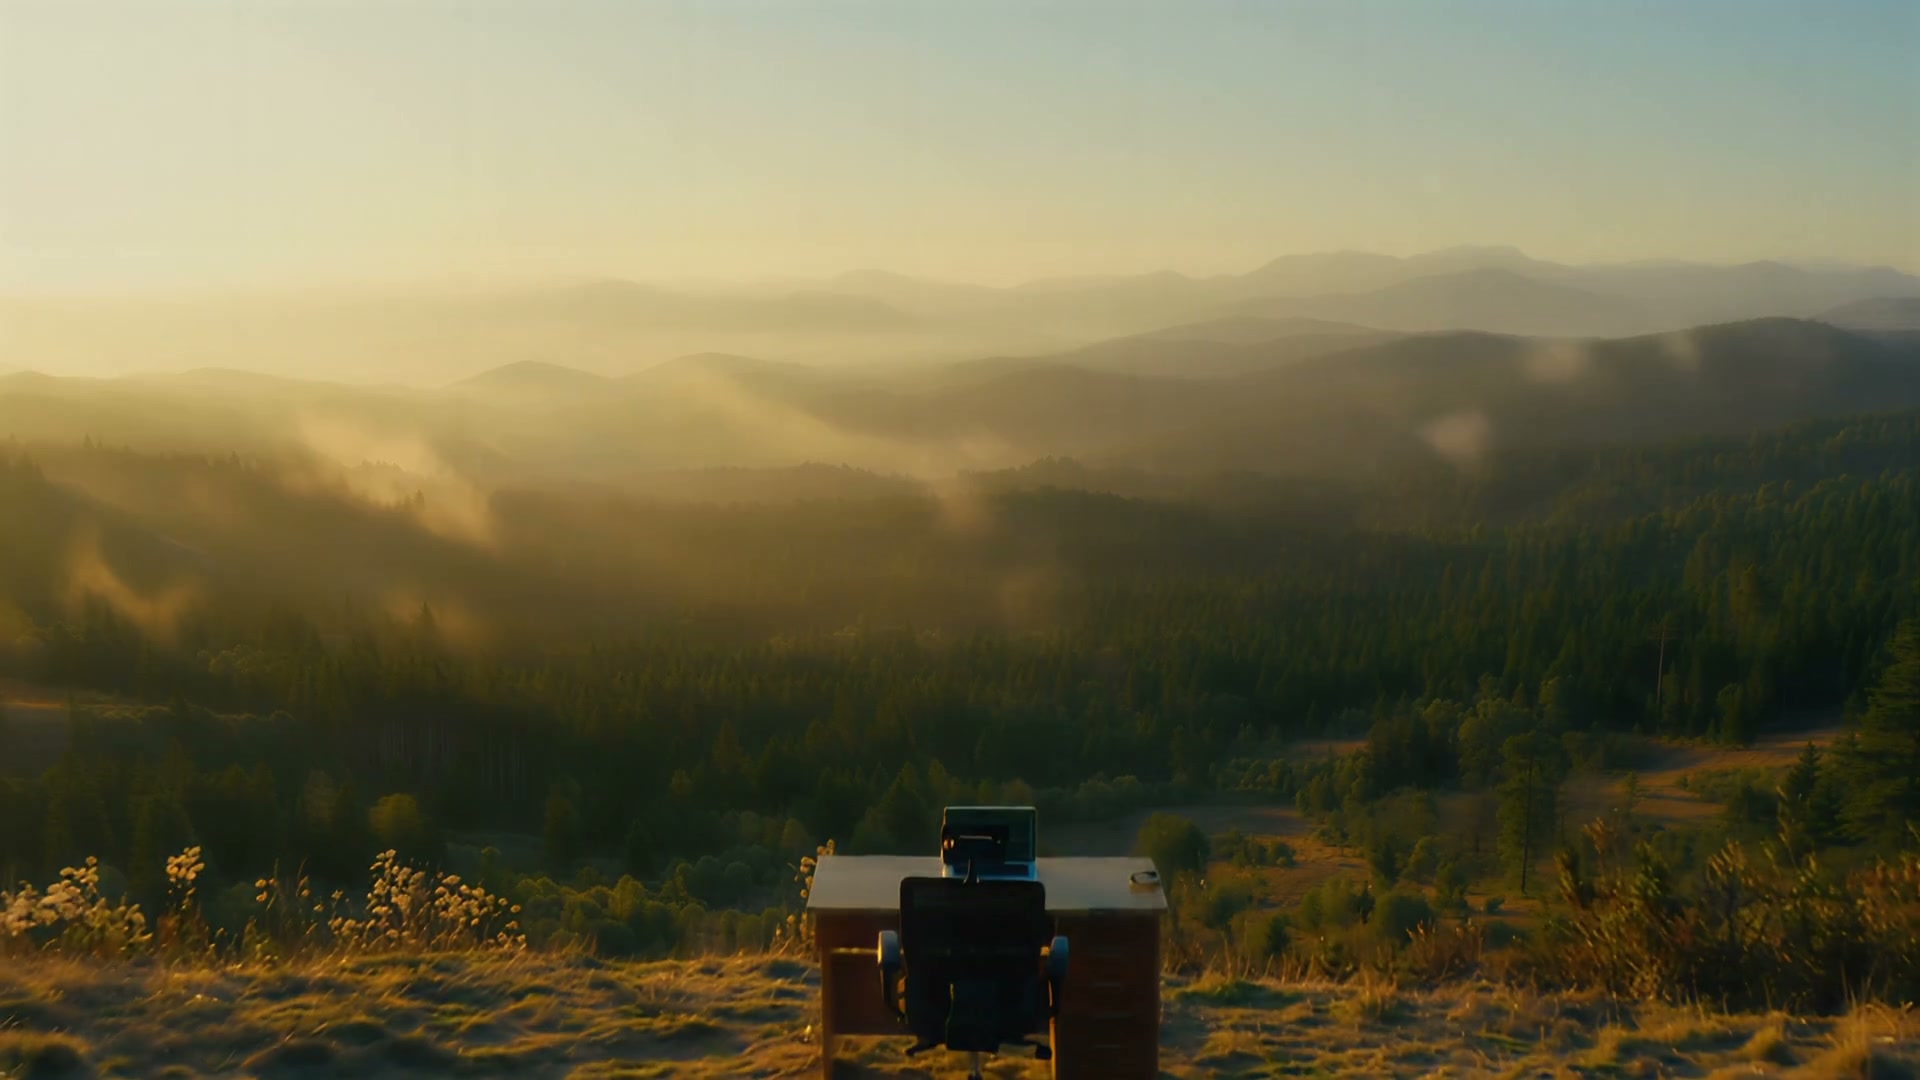
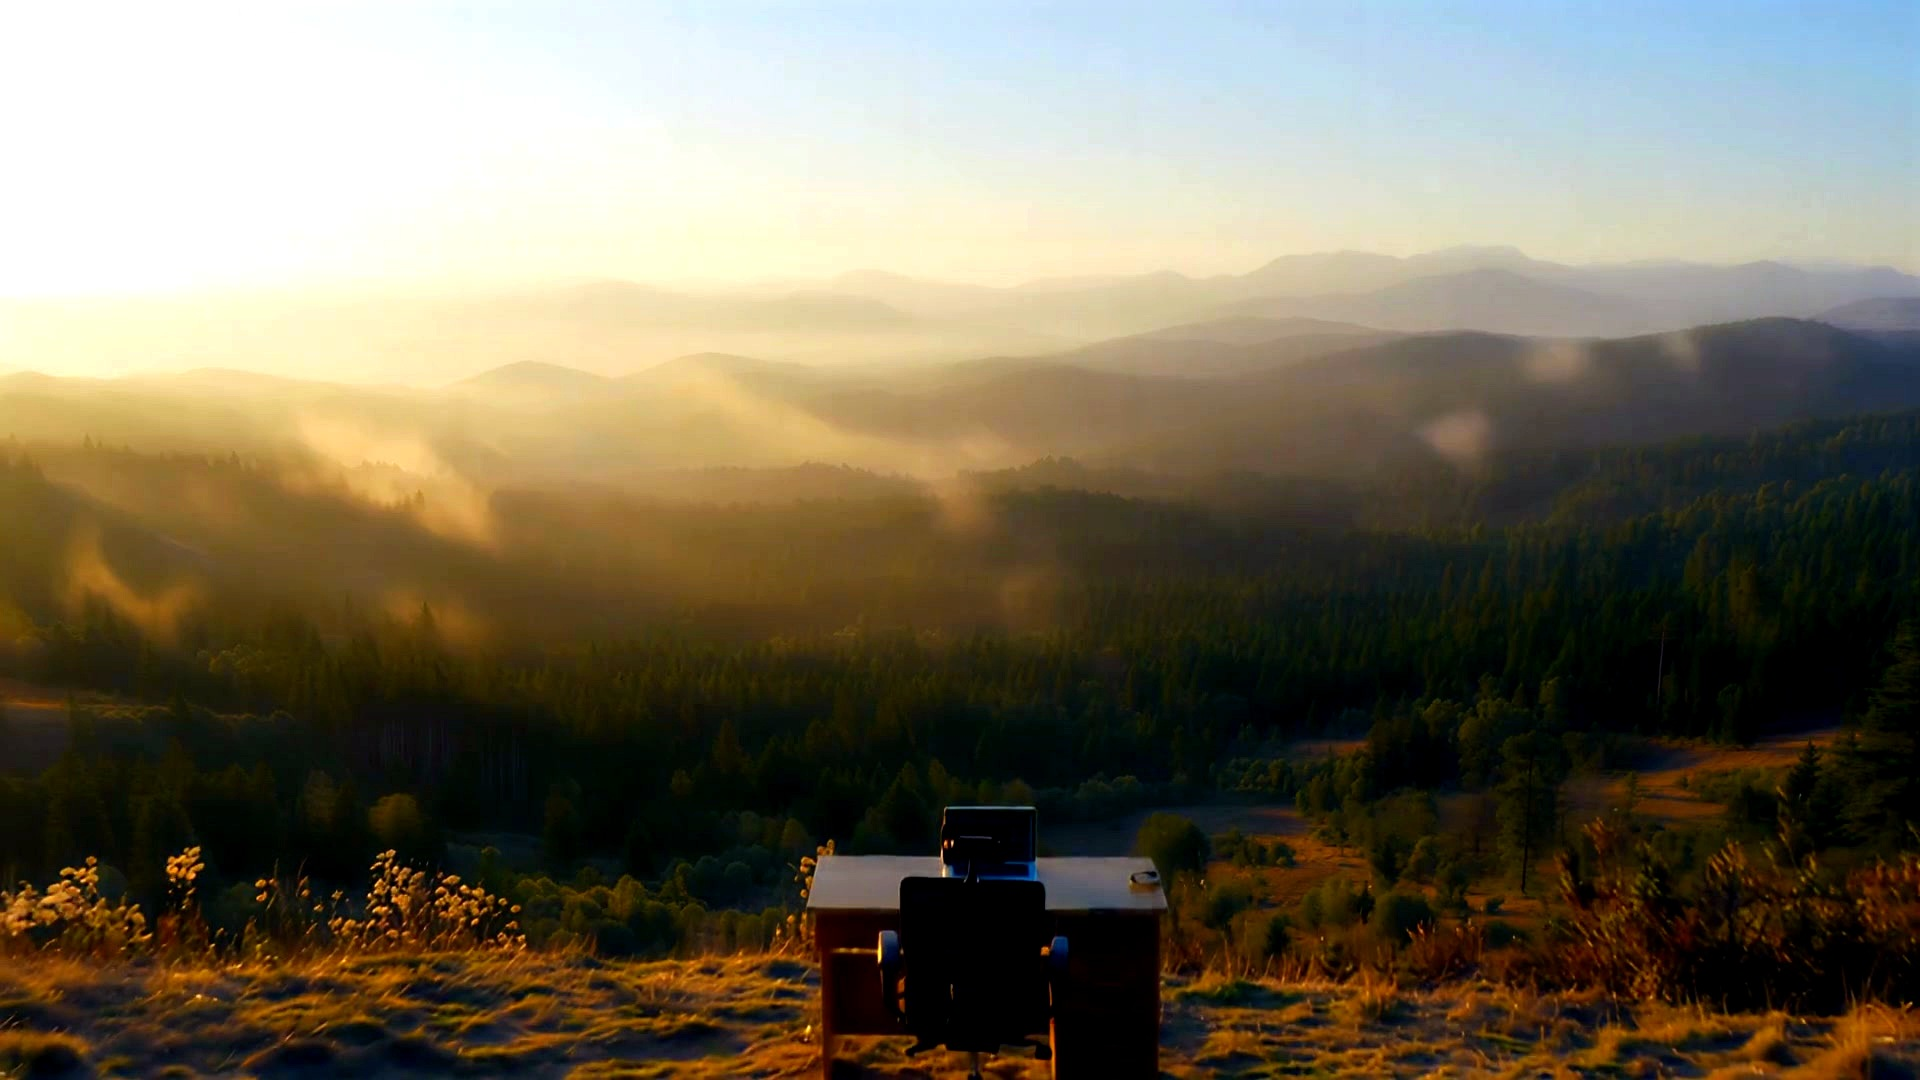
fix(www): pin check to the laptop, less haze, paper grain
Check rides the screen. Valley is clearer. Rest of the site is warm paper, not blank white.

diff --git a/assets/site.css b/assets/site.css
@@ -28,17 +28,17 @@
 }
 
 :root {
-  --paper: #f6f1e8;
-  --page: #f7f4ee;
-  --header: #ffffff;
-  --card: #ffffff;
+  --paper: #e8dfcf;
+  --page: #ebe3d3;
+  --header: #ebe3d3;
+  --card: #f4ecdf;
   --ink: #161616;
   --ink-soft: #3a3a3a;
   --mute: #5c5c5c;
-  --line: #e6e1d8;
+  --line: #d5ccbc;
   --cyan: #5b5ce2;
   --gold: #c9a227;
-  --night: #f7f4ee;
+  --night: #ebe3d3;
   --night-ink: #161616;
   --night-mute: #5c5c5c;
   --purple: #5b5ce2;
@@ -51,15 +51,15 @@
 }
 html[data-theme="dark"] {
   color-scheme: light;
-  --paper: #f6f1e8;
-  --page: #f7f4ee;
-  --header: #ffffff;
-  --card: #ffffff;
+  --paper: #e8dfcf;
+  --page: #ebe3d3;
+  --header: #ebe3d3;
+  --card: #f4ecdf;
   --ink: #161616;
   --ink-soft: #3a3a3a;
   --mute: #5c5c5c;
-  --line: #e6e1d8;
-  --night: #f7f4ee;
+  --line: #d5ccbc;
+  --night: #ebe3d3;
   --night-ink: #161616;
   --night-mute: #5c5c5c;
 }
@@ -67,11 +67,15 @@ html[data-theme="dark"] {
 * { box-sizing: border-box; }
 html { color-scheme: light; scroll-behavior: smooth; }
 html[data-theme="dark"] { color-scheme: light; }
+html, body {
+  background-color: var(--page);
+  background-image: radial-gradient(rgba(74, 58, 36, 0.11) 0.55px, transparent 0.7px);
+  background-size: 7px 7px;
+}
 body {
   margin: 0;
   min-height: 100vh;
   color: var(--ink);
-  background: var(--page);
   font-family: Outfit, "Segoe UI", sans-serif;
   line-height: 1.5;
   -webkit-font-smoothing: antialiased;
@@ -1717,6 +1721,7 @@ html[data-theme="dark"] .people-plate.people-dark { display: block; }
   .air-pin { height: auto; }
   .air-hero { position: relative; height: auto; min-height: 100vh; }
   .air-land { transform: none !important; }
+  .air-world { transform: none !important; }
   .air-copy { opacity: 1 !important; }
   .air-check { opacity: 1; }
 }
@@ -1789,7 +1794,7 @@ html[data-theme="dark"] .people-plate.people-dark { display: block; }
 }
 
 
-.air-pin { height: 240vh; position: relative; }
+.air-pin { height: 200vh; position: relative; }
 .air-hero {
   position: sticky;
   top: 0;
@@ -1801,15 +1806,18 @@ html[data-theme="dark"] .people-plate.people-dark { display: block; }
   z-index: 1;
 }
 .sell-hero.air-hero::after { display: none; }
+.air-world {
+  position: absolute;
+  transform-origin: 51.9% 76.6%;
+  will-change: transform;
+}
 .air-land {
   position: absolute;
   inset: 0;
   width: 100%;
   height: 100%;
-  object-fit: cover;
-  object-position: center 72%;
-  transform-origin: 50% 82%;
-  will-change: transform;
+  object-fit: fill;
+  display: block;
 }
 .air-shade {
   position: absolute;
@@ -1866,33 +1874,40 @@ html[data-theme="dark"] .people-plate.people-dark { display: block; }
 }
 .air-check {
   position: absolute;
-  left: 50%;
-  bottom: 11%;
-  width: min(360px, 86vw);
-  transform: translateX(-50%);
+  left: 50.35%;
+  top: 75.05%;
+  width: 2.35%;
+  height: 3.15%;
+  min-width: 0;
+  max-width: 2.35%;
+  max-height: 3.15%;
   z-index: 5;
   opacity: 0;
   pointer-events: none;
-  background: #fbfaf6;
+  overflow: hidden;
+  box-sizing: border-box;
+  background: #f7f1e6;
   color: #161616;
-  border-radius: 14px;
-  padding: 14px 16px;
-  box-shadow: 0 24px 60px rgba(8,12,18,.35);
+  border-radius: 3px;
+  padding: 3px 4px;
+  box-shadow: none;
   text-shadow: none;
-  transition: opacity .35s ease;
+  font-size: 4px;
+  line-height: 1.1;
+  transition: opacity .25s ease;
 }
 .air-check.is-on { opacity: 1; }
-.air-check .from { font-size: 11px; color: #6a6a6a; margin: 0 0 8px; }
-.air-check h3 { margin: 0 0 10px; font: 400 18px "Instrument Serif", Georgia, serif; }
+.air-check .from { font-size: 0.7em; color: #6a6a6a; margin: 0 0 0.4em; white-space: nowrap; overflow: hidden; }
+.air-check h3 { margin: 0 0 0.45em; font: 400 1.15em "Instrument Serif", Georgia, serif; white-space: nowrap; overflow: hidden; }
 .air-check .pane {
   border: 1px solid #e6e1d8;
-  border-radius: 8px;
-  padding: 8px 10px;
-  margin: 0 0 8px;
+  border-radius: 8%;
+  padding: 0.35em 0.45em;
+  margin: 0 0 0.35em;
   background: #fff;
 }
-.air-check .pane strong { display: block; font-size: 14px; }
-.air-check .pane span { font-size: 11px; color: #6a6a6a; }
+.air-check .pane strong { display: block; font-size: 0.95em; }
+.air-check .pane span { font-size: 0.65em; color: #6a6a6a; }
 .air-after { padding-top: 56px; }
 .air-after .product-line { font-size: 20px; max-width: 720px; }
 .home .site-header {

diff --git a/trust.html b/trust.html
@@ -5,7 +5,7 @@
      enforceable subset. NOTE: frame-ancestors is ignored when delivered via <meta>;
      real clickjacking protection requires a header layer (Cloudflare/CloudFront) and
      is required before any verification surface is hosted on this domain. -->
-<meta http-equiv="Content-Security-Policy" content="default-src 'self'; script-src 'self'; style-src 'self'; img-src 'self'; font-src 'self'; connect-src 'self'; object-src 'none'; base-uri 'none'; form-action 'self'; frame-ancestors 'none'; upgrade-insecure-requests"><meta name="referrer" content="strict-origin-when-cross-origin"><meta http-equiv="X-Content-Type-Options" content="nosniff"><title>Trust &amp; Evidence | Signet7</title><meta name="description" content="Understand Signet7 signature-bound sender identity, trust states, decision evidence, compliance boundaries, and the Verifiable Sender Network (VSN) lookup live now."><link rel="canonical" href="https://signet7.io/trust"><meta property="og:title" content="Trust &amp; Evidence | Signet7"><meta property="og:description" content="Understand Signet7 signature-bound sender identity, trust states, decision evidence, compliance boundaries, and the Verifiable Sender Network (VSN) lookup live now."><meta property="og:type" content="website"><meta property="og:url" content="https://signet7.io/trust"><meta property="og:image" content="https://signet7.io/assets/og-image.png"><meta name="twitter:card" content="summary_large_image"><link rel="icon" type="image/png" href="assets/favicon.png"><link rel="stylesheet" href="assets/site.css?v=20260901m"></head>
+<meta http-equiv="Content-Security-Policy" content="default-src 'self'; script-src 'self'; style-src 'self'; img-src 'self'; font-src 'self'; connect-src 'self'; object-src 'none'; base-uri 'none'; form-action 'self'; frame-ancestors 'none'; upgrade-insecure-requests"><meta name="referrer" content="strict-origin-when-cross-origin"><meta http-equiv="X-Content-Type-Options" content="nosniff"><title>Trust &amp; Evidence | Signet7</title><meta name="description" content="Understand Signet7 signature-bound sender identity, trust states, decision evidence, compliance boundaries, and the Verifiable Sender Network (VSN) lookup live now."><link rel="canonical" href="https://signet7.io/trust"><meta property="og:title" content="Trust &amp; Evidence | Signet7"><meta property="og:description" content="Understand Signet7 signature-bound sender identity, trust states, decision evidence, compliance boundaries, and the Verifiable Sender Network (VSN) lookup live now."><meta property="og:type" content="website"><meta property="og:url" content="https://signet7.io/trust"><meta property="og:image" content="https://signet7.io/assets/og-image.png"><meta name="twitter:card" content="summary_large_image"><link rel="icon" type="image/png" href="assets/favicon.png"><link rel="stylesheet" href="assets/site.css?v=20260901p"></head>
 <body>
   <a class="skip-link" href="#main">Skip to content</a>
   <header class="site-header"><div class="container nav-wrap"><a class="brand" href="/"><img src="assets/signet7-logo-mark.png?v=c4" width="768" height="768" alt="Signet7"><span>Signet7</span></a>      <button class="nav-toggle" type="button" aria-expanded="false" aria-controls="site-nav" aria-label="Open menu">Menu</button>

diff --git a/integrations.html b/integrations.html
@@ -5,7 +5,7 @@
      enforceable subset. NOTE: frame-ancestors is ignored when delivered via <meta>;
      real clickjacking protection requires a header layer (Cloudflare/CloudFront) and
      is required before any verification surface is hosted on this domain. -->
-<meta http-equiv="Content-Security-Policy" content="default-src 'self'; script-src 'self'; style-src 'self'; img-src 'self'; font-src 'self'; connect-src 'self'; object-src 'none'; base-uri 'none'; form-action 'self'; frame-ancestors 'none'; upgrade-insecure-requests"><meta name="referrer" content="strict-origin-when-cross-origin"><meta http-equiv="X-Content-Type-Options" content="nosniff"><title>Integrations | Signet7 API &amp; MCP</title><meta name="description" content="Review Signet7 API/MCP-first agent gating, caller-enforcement contract, email integration candidates, and current deployment boundaries."><link rel="canonical" href="https://signet7.io/integrations"><meta property="og:title" content="Integrations | Signet7 API &amp; MCP"><meta property="og:description" content="Review Signet7 API/MCP-first agent gating, caller-enforcement contract, email integration candidates, and current deployment boundaries."><meta property="og:type" content="website"><meta property="og:url" content="https://signet7.io/integrations"><meta property="og:image" content="https://signet7.io/assets/og-image.png"><meta name="twitter:card" content="summary_large_image"><link rel="icon" type="image/png" href="assets/favicon.png"><link rel="stylesheet" href="assets/site.css?v=20260901m"></head>
+<meta http-equiv="Content-Security-Policy" content="default-src 'self'; script-src 'self'; style-src 'self'; img-src 'self'; font-src 'self'; connect-src 'self'; object-src 'none'; base-uri 'none'; form-action 'self'; frame-ancestors 'none'; upgrade-insecure-requests"><meta name="referrer" content="strict-origin-when-cross-origin"><meta http-equiv="X-Content-Type-Options" content="nosniff"><title>Integrations | Signet7 API &amp; MCP</title><meta name="description" content="Review Signet7 API/MCP-first agent gating, caller-enforcement contract, email integration candidates, and current deployment boundaries."><link rel="canonical" href="https://signet7.io/integrations"><meta property="og:title" content="Integrations | Signet7 API &amp; MCP"><meta property="og:description" content="Review Signet7 API/MCP-first agent gating, caller-enforcement contract, email integration candidates, and current deployment boundaries."><meta property="og:type" content="website"><meta property="og:url" content="https://signet7.io/integrations"><meta property="og:image" content="https://signet7.io/assets/og-image.png"><meta name="twitter:card" content="summary_large_image"><link rel="icon" type="image/png" href="assets/favicon.png"><link rel="stylesheet" href="assets/site.css?v=20260901p"></head>
 <body>
   <a class="skip-link" href="#main">Skip to content</a>
   <header class="site-header"><div class="container nav-wrap"><a class="brand" href="/"><img src="assets/signet7-logo-mark.png?v=c4" width="768" height="768" alt="Signet7"><span>Signet7</span></a>      <button class="nav-toggle" type="button" aria-expanded="false" aria-controls="site-nav" aria-label="Open menu">Menu</button>

diff --git a/programs.html b/programs.html
@@ -5,7 +5,7 @@
      enforceable subset. NOTE: frame-ancestors is ignored when delivered via <meta>;
      real clickjacking protection requires a header layer (Cloudflare/CloudFront) and
      is required before any verification surface is hosted on this domain. -->
-<meta http-equiv="Content-Security-Policy" content="default-src 'self'; script-src 'self'; style-src 'self'; img-src 'self'; font-src 'self'; connect-src 'self'; object-src 'none'; base-uri 'none'; form-action 'self'; frame-ancestors 'none'; upgrade-insecure-requests"><meta name="referrer" content="strict-origin-when-cross-origin"><meta http-equiv="X-Content-Type-Options" content="nosniff"><title>Programs | Signet7</title><meta name="description" content="The check for every human. Watch on one company inbox. Verifiable Sender Network (VSN) so your company can be looked up. Checkout is not live."><link rel="canonical" href="https://signet7.io/programs"><meta property="og:title" content="Programs | Signet7"><meta property="og:description" content="The check for every human. Watch on one company inbox. VSN so your company can be looked up. Checkout is not live."><meta property="og:type" content="website"><meta property="og:url" content="https://signet7.io/programs"><meta property="og:image" content="https://signet7.io/assets/og-image.png"><meta name="twitter:card" content="summary_large_image"><link rel="icon" type="image/png" href="assets/favicon.png"><link rel="stylesheet" href="assets/site.css?v=20260901m"></head>
+<meta http-equiv="Content-Security-Policy" content="default-src 'self'; script-src 'self'; style-src 'self'; img-src 'self'; font-src 'self'; connect-src 'self'; object-src 'none'; base-uri 'none'; form-action 'self'; frame-ancestors 'none'; upgrade-insecure-requests"><meta name="referrer" content="strict-origin-when-cross-origin"><meta http-equiv="X-Content-Type-Options" content="nosniff"><title>Programs | Signet7</title><meta name="description" content="The check for every human. Watch on one company inbox. Verifiable Sender Network (VSN) so your company can be looked up. Checkout is not live."><link rel="canonical" href="https://signet7.io/programs"><meta property="og:title" content="Programs | Signet7"><meta property="og:description" content="The check for every human. Watch on one company inbox. VSN so your company can be looked up. Checkout is not live."><meta property="og:type" content="website"><meta property="og:url" content="https://signet7.io/programs"><meta property="og:image" content="https://signet7.io/assets/og-image.png"><meta name="twitter:card" content="summary_large_image"><link rel="icon" type="image/png" href="assets/favicon.png"><link rel="stylesheet" href="assets/site.css?v=20260901p"></head>
 <body>
   <a class="skip-link" href="#main">Skip to content</a>
   <header class="site-header"><div class="container nav-wrap"><a class="brand" href="/"><img src="assets/signet7-logo-mark.png?v=c4" width="768" height="768" alt="Signet7"><span>Signet7</span></a>      <button class="nav-toggle" type="button" aria-expanded="false" aria-controls="site-nav" aria-label="Open menu">Menu</button>

diff --git a/index.html b/index.html
@@ -21,7 +21,7 @@
   <meta property="og:image" content="https://signet7.io/assets/og-image.png">
   <link rel="canonical" href="https://signet7.io/">
   <link rel="icon" type="image/png" href="assets/favicon.png">
-  <link rel="stylesheet" href="assets/site.css?v=20260901m">
+  <link rel="stylesheet" href="assets/site.css?v=20260901p">
 </head>
 <body class="home">
   <a class="skip-link" href="#main">Skip to content</a>
@@ -69,7 +69,15 @@
   <main id="main">
     <div class="air-pin" data-air-pin>
     <section class="sell-hero air-hero" aria-labelledby="hero-title">
-      <img class="air-land" data-air-land data-air-world src="assets/air-valley.jpg" width="1920" height="1080" alt="">
+      <div class="air-world" data-air-land data-air-world>
+        <img class="air-land" src="assets/air-valley.jpg" width="1920" height="1080" alt="">
+        <aside class="air-check" data-air-check aria-label="The check on the laptop">
+          <p class="from">From ap@northline-vendors.com</p>
+          <h3>Updated wiring instructions</h3>
+          <div class="pane"><span>The words</span><strong>Still match what was sealed</strong></div>
+          <div class="pane"><span>The sender</span><strong>Not tied to that company</strong></div>
+        </aside>
+      </div>
       <div class="air-shade" aria-hidden="true"></div>
       <div class="air-copy" data-air-copy>
         <h1 id="hero-title" class="billboard">High-stakes email, finally <em>provable</em>.</h1>
@@ -84,12 +92,6 @@
           <a class="button button-secondary" href="register">Register</a>
         </div>
       </div>
-      <aside class="air-check" data-air-check aria-label="The check on the laptop">
-        <p class="from">From ap@northline-vendors.com</p>
-        <h3>Updated wiring instructions</h3>
-        <div class="pane"><span>The words</span><strong>Still match what was sealed</strong></div>
-        <div class="pane"><span>The sender</span><strong>Not tied to that company</strong></div>
-      </aside>
     </section>
     </div>
 
@@ -293,6 +295,6 @@
     </div>
   </footer>
   <script src="assets/motion.js?v=20260831e" defer></script>
-  <script src="assets/air-zoom.js" defer></script>
+  <script src="assets/air-zoom.js?v=2" defer></script>
 </body>
 </html>

diff --git a/assets/air-zoom.js b/assets/air-zoom.js
@@ -1,25 +1,45 @@
 (() => {
   const pin = document.querySelector("[data-air-pin]");
-  const land = document.querySelector("[data-air-land]");
+  const world = document.querySelector("[data-air-land]");
   const copy = document.querySelector("[data-air-copy]");
   const check = document.querySelector("[data-air-check]");
-  if (!pin || !land) return;
+  if (!pin || !world) return;
+  const ar = 1920 / 1080;
   const reduce = window.matchMedia("(prefers-reduced-motion: reduce)").matches;
-  if (reduce) {
-    land.style.transform = "none";
-    if (copy) copy.style.opacity = "1";
-    if (check) check.classList.add("is-on");
-    return;
-  }
+
+  const layout = () => {
+    const vw = window.innerWidth;
+    const vh = window.innerHeight;
+    let w;
+    let h;
+    if (vw / vh > ar) {
+      w = vw;
+      h = vw / ar;
+    } else {
+      h = vh;
+      w = vh * ar;
+    }
+    world.style.width = w + "px";
+    world.style.height = h + "px";
+    world.style.left = (vw - w) / 2 + "px";
+    world.style.top = (vh - h) / 2 + "px";
+  };
 
   const paint = () => {
+    layout();
+    if (reduce) {
+      world.style.transform = "none";
+      if (copy) copy.style.opacity = "1";
+      if (check) check.classList.add("is-on");
+      return;
+    }
     const total = Math.max(1, pin.offsetHeight - window.innerHeight);
     const passed = Math.min(total, Math.max(0, -pin.getBoundingClientRect().top));
     const p = passed / total;
-    land.style.transform = "scale(" + (1 + p * 1.9) + ")";
-    if (copy) copy.style.opacity = String(Math.max(0, 1 - p * 1.5));
+    world.style.transform = "scale(" + (1 + p * 2.85) + ")";
+    if (copy) copy.style.opacity = String(Math.max(0, 1 - p * 1.55));
     if (check) {
-      if (p > 0.42) check.classList.add("is-on");
+      if (p > 0.38) check.classList.add("is-on");
       else check.classList.remove("is-on");
     }
   };

diff --git a/pilot.html b/pilot.html
@@ -16,7 +16,7 @@
   <meta name="twitter:card" content="summary_large_image">
   <meta name="description" content="A bounded four-week Signet7 Founding Design Partner evaluation for one consequential email workflow: payment instructions.">
   <meta name="theme-color" content="#030609"><title>Founding Design Partner Pilot | Signet7</title>
-  <link rel="icon" type="image/png" href="assets/favicon.png"><link rel="apple-touch-icon" href="assets/apple-touch-icon.png"><link rel="stylesheet" href="assets/site.css?v=20260901m">
+  <link rel="icon" type="image/png" href="assets/favicon.png"><link rel="apple-touch-icon" href="assets/apple-touch-icon.png"><link rel="stylesheet" href="assets/site.css?v=20260901p">
 </head>
 <body>
   <a class="skip-link" href="#main">Skip to content</a>

diff --git a/download.html b/download.html
@@ -18,7 +18,7 @@
   <meta property="og:image" content="https://signet7.io/assets/og-image.png">
   <link rel="canonical" href="https://signet7.io/download">
   <link rel="icon" type="image/png" href="assets/favicon.png">
-  <link rel="stylesheet" href="assets/site.css?v=20260901m">
+  <link rel="stylesheet" href="assets/site.css?v=20260901p">
   <link rel="stylesheet" href="assets/download.css">
   <link rel="stylesheet" href="assets/install-chooser.css?v=20260831c">
 </head>

diff --git a/feedback.html b/feedback.html
@@ -18,7 +18,7 @@
   <meta property="og:image" content="https://signet7.io/assets/og-image.png">
   <link rel="canonical" href="https://signet7.io/feedback">
   <link rel="icon" type="image/png" href="assets/favicon.png">
-  <link rel="stylesheet" href="assets/site.css?v=20260901m">
+  <link rel="stylesheet" href="assets/site.css?v=20260901p">
   <link rel="stylesheet" href="assets/feedback.css?v=20260831a">
 </head>
 <body>

diff --git a/outlook/index.html b/outlook/index.html
@@ -18,7 +18,7 @@
   <meta property="og:image" content="https://signet7.io/assets/og-image.png">
   <link rel="canonical" href="https://signet7.io/outlook">
   <link rel="icon" type="image/png" href="../assets/favicon.png">
-  <link rel="stylesheet" href="../assets/site.css?v=20260901m">
+  <link rel="stylesheet" href="../assets/site.css?v=20260901p">
 </head>
 <body>
   <a class="skip-link" href="#main">Skip to content</a>

diff --git a/companies.html b/companies.html
@@ -18,7 +18,7 @@
   <meta property="og:image" content="https://signet7.io/assets/og-link-two.png">
   <link rel="canonical" href="https://signet7.io/companies">
   <link rel="icon" type="image/png" href="assets/favicon.png">
-  <link rel="stylesheet" href="assets/site.css?v=20260901m">
+  <link rel="stylesheet" href="assets/site.css?v=20260901p">
 </head>
 <body>
   <a class="skip-link" href="#main">Skip to content</a>

diff --git a/one-pager.html b/one-pager.html
@@ -18,7 +18,7 @@
   <meta property="og:image" content="https://signet7.io/assets/og-link-two.png">
   <link rel="canonical" href="https://signet7.io/one-pager">
   <link rel="icon" type="image/png" href="assets/favicon.png">
-  <link rel="stylesheet" href="assets/site.css?v=20260901m">
+  <link rel="stylesheet" href="assets/site.css?v=20260901p">
 </head>
 <body>
   <a class="skip-link" href="#main">Skip to content</a>
